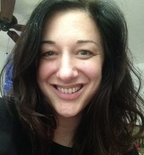
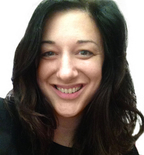
clean up

Changed region(s): [[0.6944, 0.0, 1.0, 1.0], [0.0, 0.0, 0.3333, 0.6452], [0.25, 0.1548, 0.2778, 0.1806]]

diff --git a/index.html b/index.html
@@ -12,16 +12,21 @@
     <body>
         <main role="main">
             <header role="banner">
-                <div class="left">
+                <div class="header-left">
                     <h1 class="name">Laura Jodz</h1>
-                    <img id="headshot" src="./public/headshot.jpg">
+                    <img id="headshot" src="./public/headshot1.jpg">
                     <h2 class="title">Web Developer / Analyst</h2>
                     <h3 class="la">Los Angeles</h3>
-                </div>
-                <div class="right">
-                    <h4 class="intro">Hi! I'm Laura. I am an IT Business Analyst with newly acquired coding skills, currently living in Los Angeles and originally from Philadelphia (i.e. not a fan of snow). I love workng in IT because I get to solve problems and constantly learn new things. I enjoy working with other tech people who are passionnate about their work. I also love my family, exploring Southern California, watching baseball, reading, learning, teaching, cooking, baking, and gardening. I was at the game when the Phillies won the World Series in '08, to this day one of the greatest memories of my life.</h4>
                     <h5 class="technology-header">TECHNOLOGY</h5>
                     <h6 class="technology">HTML, CSS, JavaScript, jQuery, React, Redux, Node.js, Express.js, MongoDB, SQL, Tableau, Excel</h6>
+                </div>
+                <div class="header-right">
+                    <h4 class="intro">
+                        <p>Hi! I'm Laura.</p>
+                        <p>I am a web developer and IT business analyst, currently living in Los Angeles and originally from Philadelphia. I love workng in IT because I get to solve problems and make things work better.</p>
+                        <p> My first ever job in tech was on a Y2K "renovation" project. I learned COBOL for that project and haven't stopped learning since, up to and including React. I took a break from tech to work in Operations at a start up, but I have missed it and am glad to be back. I love working with other tech people who are really into their work.</p>
+                        <p>I also love my family back East, exploring Southern California, watching baseball, hiking, reading, learning, teaching, baking, trying new craft beers, and gardening. I was at the game when the Phillies won the World Series in '08, to this day one of the greatest memories of my life.</p>
+                    </h4>
                     <div class="links">
                         <a href="mailto:laura@laurajodz.com"><i class="far fa-envelope fa-2x" id="links"></i></a>
                         <a href="https://github.com/laurajodz" target="_blank" rel="noopener noreferrer"><i class="fab fa-github fa-2x" id="links"></i></a>
@@ -39,8 +44,8 @@
                 </div>
                 <div class="right">
                     <h2 class="app-name">Mood Today</h2>
-                    <a href="https://github.com/laurajodz/mood-app-client" class="code-site">CODE</a>
-                    <a href="https://moodtoday.netlify.com/" class="code-site">LIVE SITE</a>
+                    <a href="https://github.com/laurajodz/mood-app-client" target="_blank" rel="noopener noreferrer" class="code-site">CODE</a>
+                    <a href="https://moodtoday.netlify.com/" target="_blank" rel="noopener noreferrer" class="code-site">LIVE SITE</a>
                     <p class="stack">React, Redux, Node.js, Express.js, MongoDB</p>
                     <p class="description">Mood Today is a mood tracking app. Every day you can rate your mood, along with other factors such as sleep, healthy eating, and exercise, to build up a database of your mood data over time. Then you can run data analytics on your mood history to visualize your records and identify any patterns that might exist.</p>
                 </div>
@@ -52,8 +57,8 @@
                 </div>
                 <div class="right">
                     <h2 class="app-name">EasyPeasy</h2>
-                    <a href="https://github.com/laurajodz/easypeasy" class="code-site">CODE</a>
-                    <a href="https://secure-bayou-31170.herokuapp.com" class="code-site">LIVE SITE</a>
+                    <a href="https://github.com/laurajodz/easypeasy" target="_blank" rel="noopener noreferrer" class="code-site">CODE</a>
+                    <a href="https://secure-bayou-31170.herokuapp.com" target="_blank" rel="noopener noreferrer" class="code-site">LIVE SITE</a>
                     <p class="stack">JavaScript, jQuery, Node.js, Express.js, MongoDB</p>
                     <p class="description">EasyPeasy is a meal planning app. You can search for recipes and create a weekly meal plan. Then EasyPeasy generates your shopping list. You can add other items to the shopping list as well.</p>
                 </div>
@@ -65,15 +70,15 @@
                 </div>
                 <div class="right">
                     <h2 class="app-name">Meetmap</h2>
-                    <a href="https://github.com/laurajodz/Meetmap" class="code-site">CODE</a>
-                    <a href="https://meetmap.netlify.com/" class="code-site">LIVE SITE</a>
+                    <a href="https://github.com/laurajodz/Meetmap" target="_blank" rel="noopener noreferrer" class="code-site">CODE</a>
+                    <a href="https://meetmap.netlify.com/" target="_blank" rel="noopener noreferrer" class="code-site">LIVE SITE</a>
                     <p class="stack">JavaScript, jQuery</p>
                     <p class="description">Meetmap allows you to view Meetup events on a map. I used the Google Map and the Meetup APIs for this project.</p>
                 </div>
             </section>
         </main>
         <footer role="content-info">
-            <h2>Contact Me</h2>
+            <h2>Contact me</h2>
             <a href="mailto:laura@laurajodz.com"><i class="far fa-envelope fa-2x" id="links"></i></a>
             <p>Copyright 2018, Laura Jodz</p>
         </footer>

diff --git a/main.css b/main.css
@@ -21,12 +21,17 @@ header {
   padding: 20px;
   background-color: #008080;
   color: #e5f2f2;
-  /* display: flex; */
+  height: 1700px;
+}
+
+.header-left, .header-right {
+  width: 100%;
+  float: left;
 }
 
 .name {
   font-family: 'Shadows Into Light', cursive;
-  font-size: 80px;
+  font-size: 60px;
 }
 
 .title, .la, .app-name {
@@ -36,6 +41,11 @@ header {
 
 #headshot {
   border-radius: 50%;
+  border: 2px solid white;
+}
+
+.technology-header {
+  margin-top: 50px;
 }
 
 .technology {
@@ -59,7 +69,7 @@ header {
 .work {
   background-color: #e5f2f2;
   margin: 0;
-  padding: 40px;
+  padding-top: 80px;
   font-family: 'Shadows Into Light', cursive;
   font-size: 50px;
 }
@@ -68,13 +78,12 @@ section {
   min-height: 200px;
   padding: 40px;
   background-color: #e5f2f2;
-  /* display: flex; */
 }
 
 .screenshot {
   box-shadow: 0 4px 8px 0 rgba(0, 0, 0, 0.2), 0 6px 20px 0 rgba(0, 0, 0, 0.19);
   max-width: 95%;
-  margin-top: 50px;
+  margin-top: 60px;
 }
 
 .code-site {
@@ -92,25 +101,31 @@ footer {
 }
 
 @media screen and (min-width: 768px) {
-  .intro, .technology, .description {
-    max-width: 80%;
-    margin: auto;
+  header {
+    max-height: 900px;
+  }
+  .header-left {
+    width: 40%;
+  }
+  .header-right {
+    width: 50%;
+    margin-left: 60px;
+    padding-top: 60px;
+  }
+  .description {
+    padding-left: 40px;
+    padding-right: 40px;
   }
 }
 
 @media screen and (min-width: 1024px) {
-  .intro, .technology, .technology-header, .description, .code-site, .stack {
-    font-size: 2em;
+  .header-right {
+    margin-left: 90px;
+    font-size: 20px;
   }
-  .work {
-    font-size: 60px;
-  }
-  .app-name {
-    font-size: 50px;
+  .description {
+    padding-left: 80px;
+    padding-right: 80px;
+    font-size: 20px;
   }
 }
-/*
-@media screen and (min-width: 1500px) {
-
-  }
-} */

diff --git a/README.md b/README.md
@@ -1,0 +1,8 @@
+Laura Jodz's portfolio:  https://www.laurajodz.com
+
+
+### Technology stack
+
++ HTML
++ CSS
++ JavaScript
